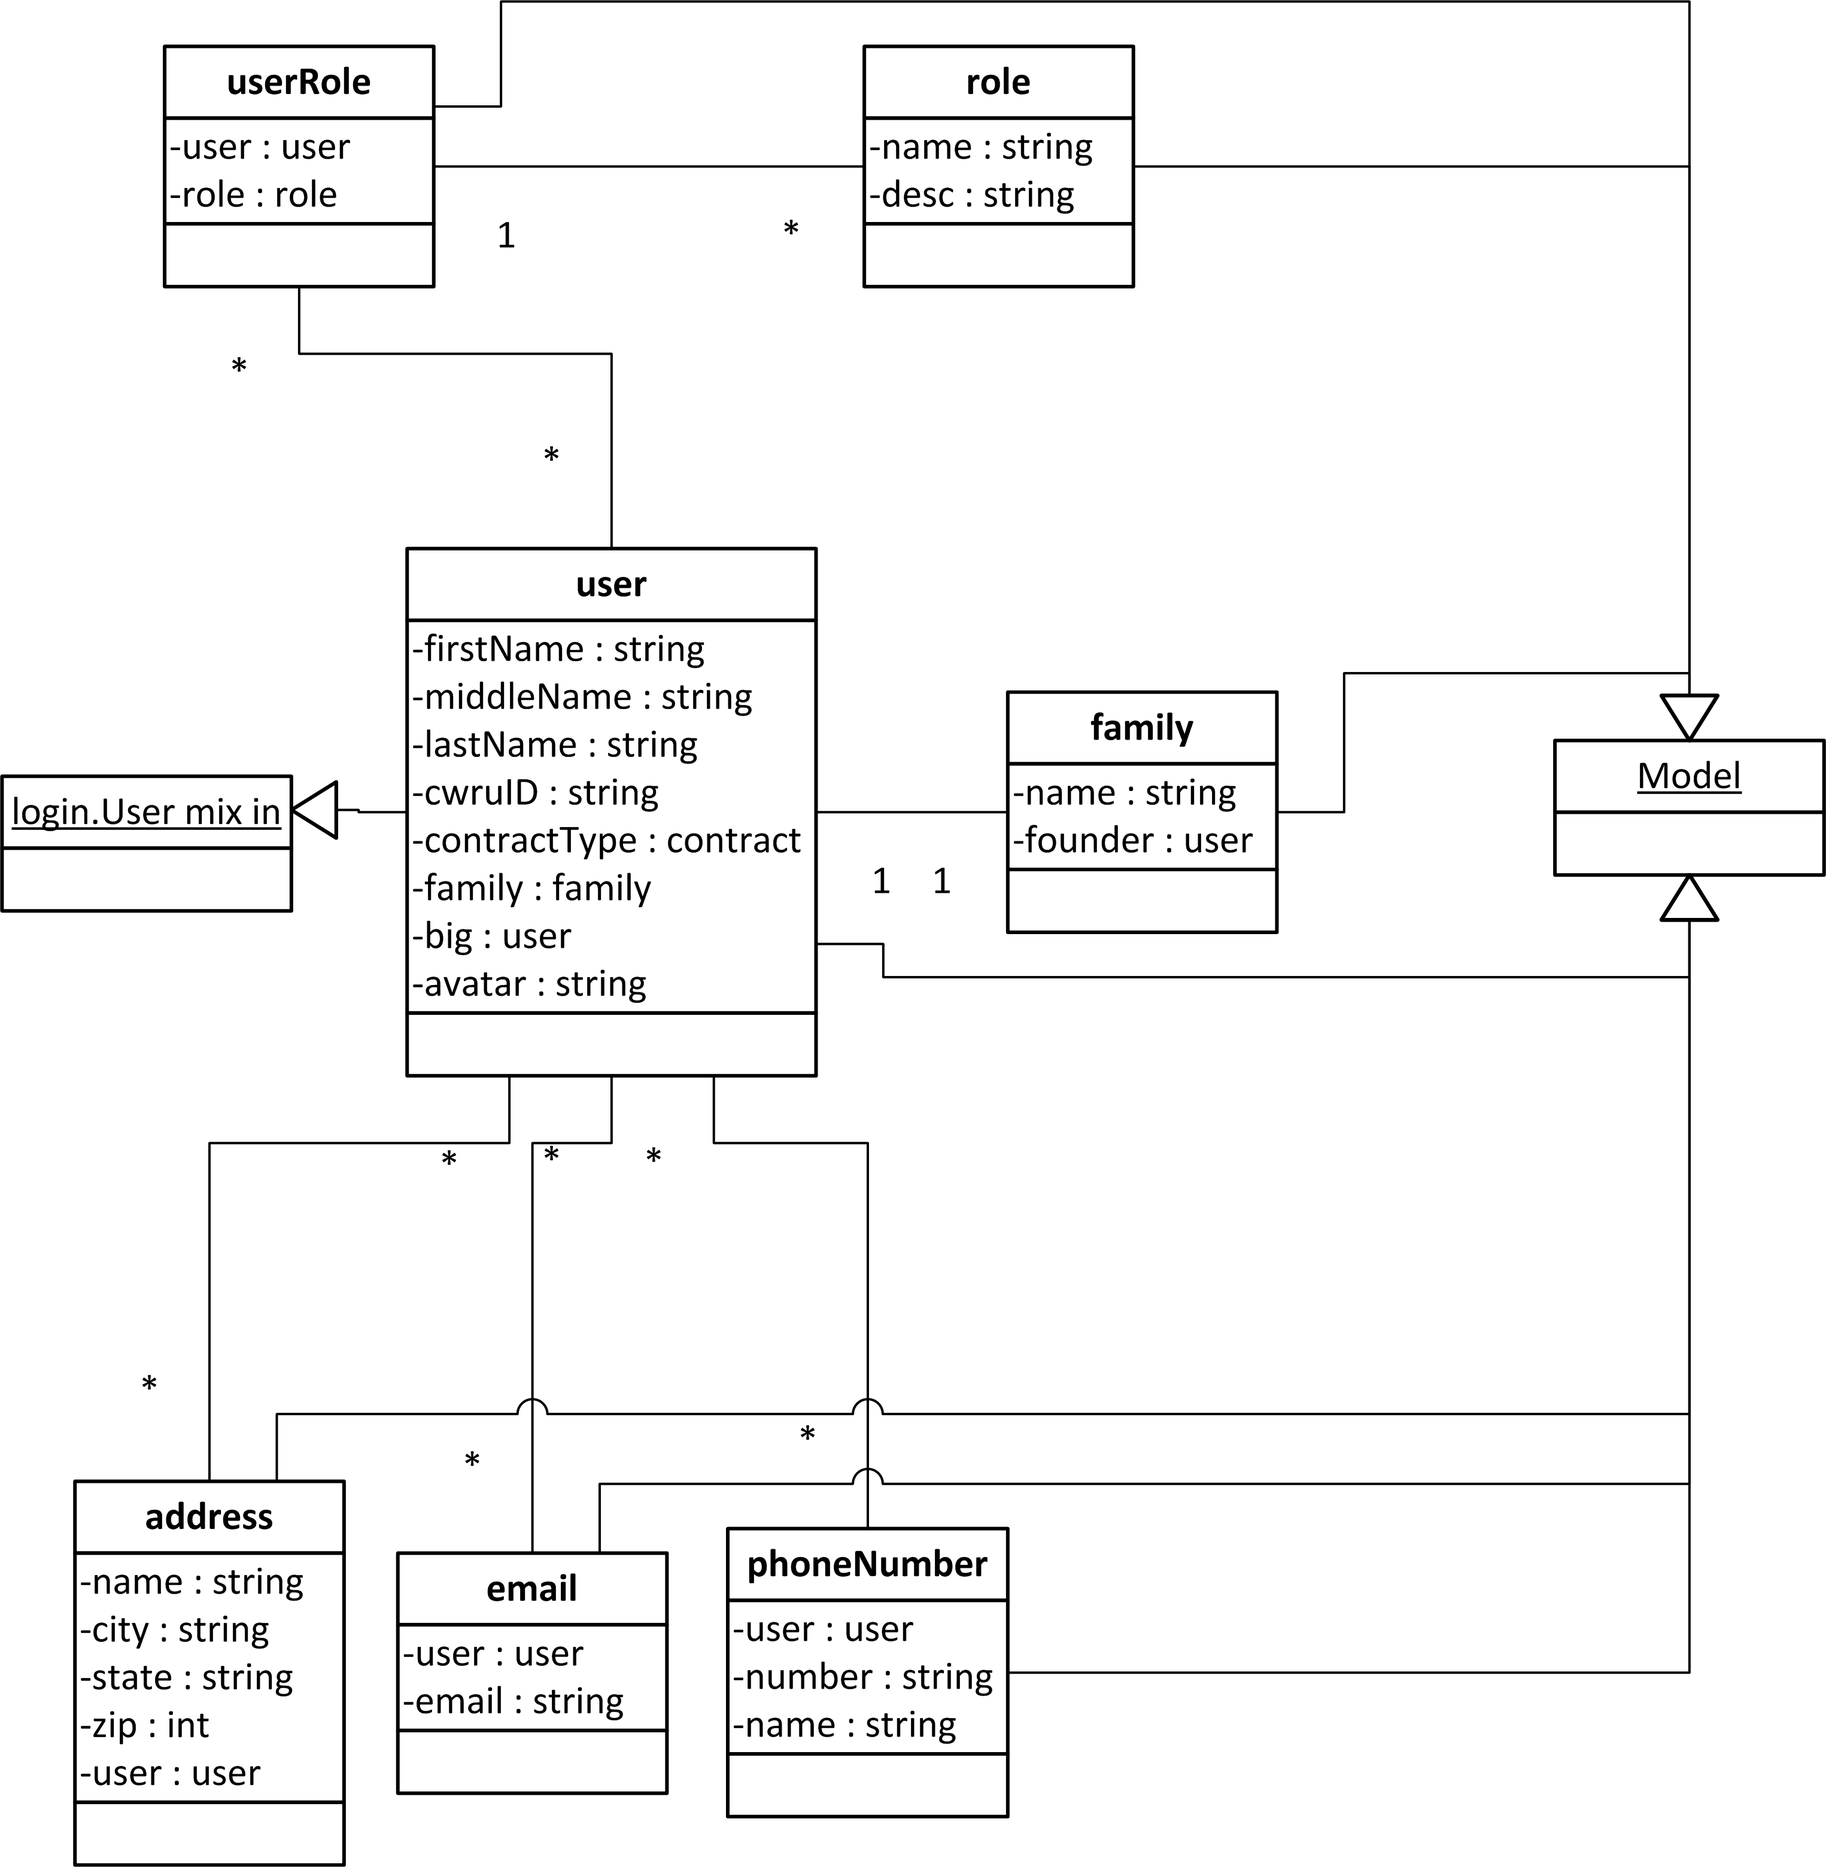
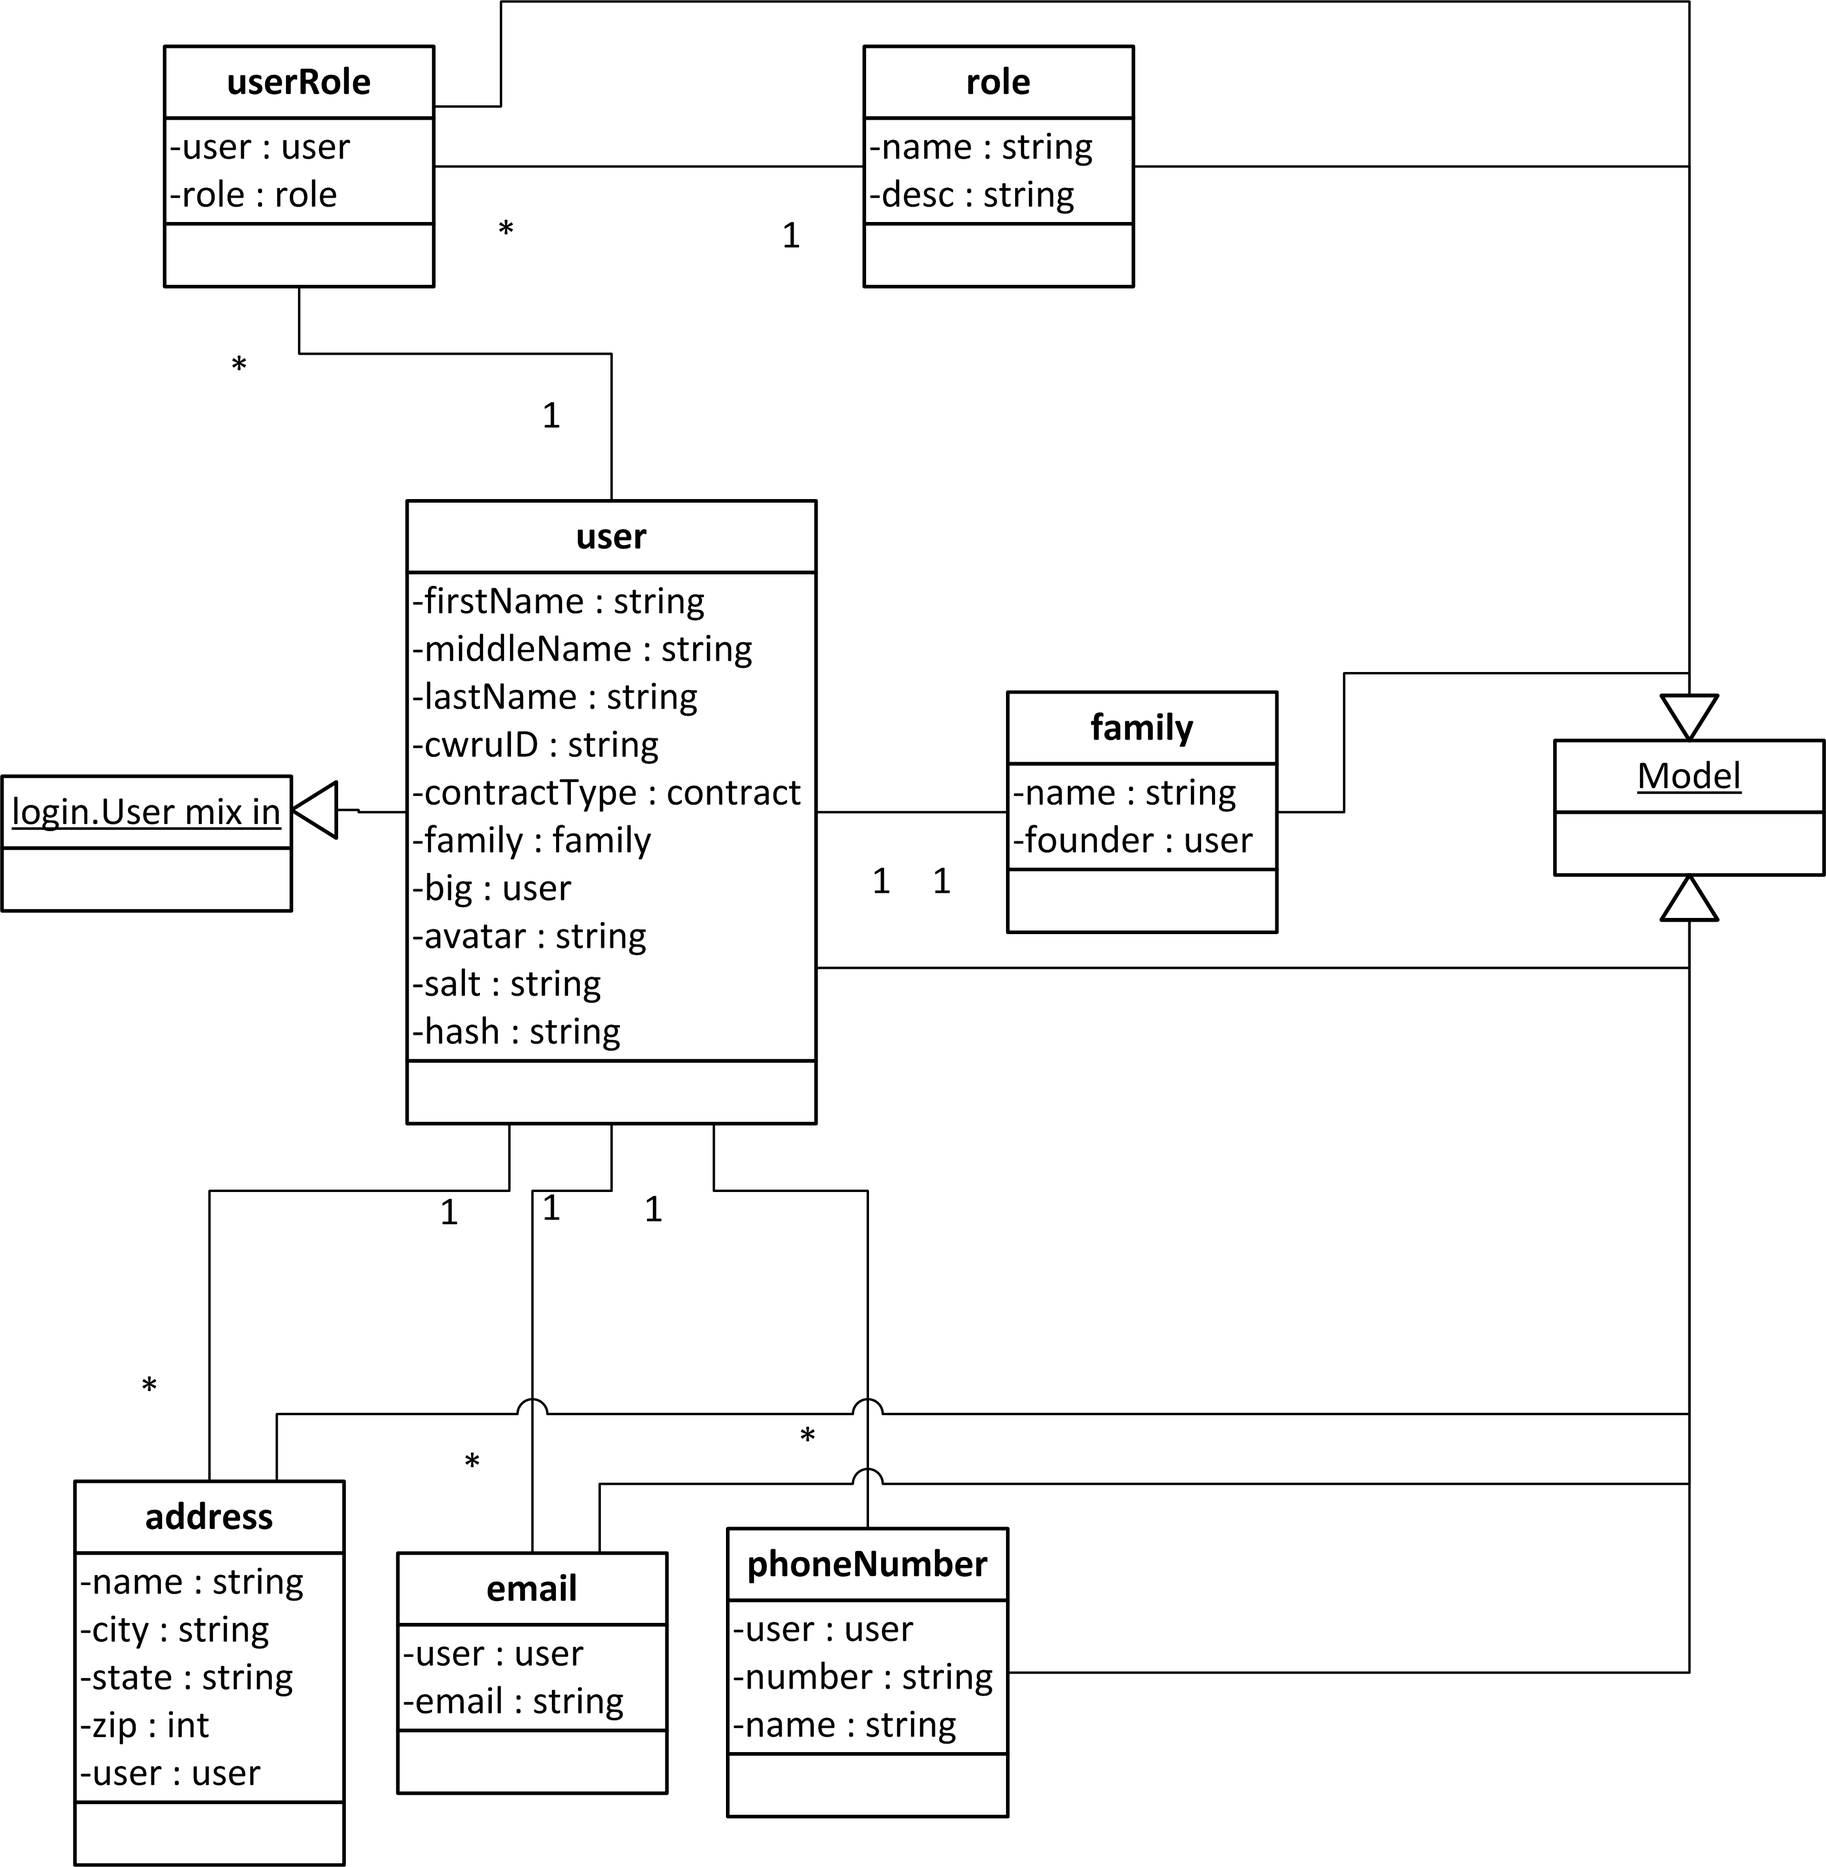
Still needs to be proofread but the main version is done

Changed region(s): [[0.218, 0.2798, 0.4671, 0.6218], [0.4671, 0.4974, 0.4982, 0.5285]]

diff --git a/docs/design/design.tex b/docs/design/design.tex
@@ -314,6 +314,23 @@ extensions to Flask. User Login is such a common task that an extension to Flask
 \end{figure}
 \FloatBarrier
 
+The LoginView is responsible for taking in the loginTemplate and using the info in the loginForm to do the password hashing algorithm described in section \ref{sec:passwordSecurity}. If the hashed password matches the stored hashed password then the user is successfully logged in and the view updates the applications state
+
+\subsubsection{Password Security}
+\label{sec:passwordSecurity}
+
+In order to provide the most security possible logins will only be done over an SSL encrypted connection. In addition passwords shall be salted and hashed before being stored. No plain text form of the password shall ever be stored anywhere by the webserver.
+
+The general process for checking the password is:
+
+\begin{enumerate}
+\item Retrieve user from datastore based on provided username
+\item Retrieve salt from user entity
+\item Take salt and concatenate it with the received password
+\item Perform a SHA-256 Hash on the salted password
+\item Check if the hash matches the hash stored in the user entity
+\end{enumerate}
+
 \subsection{General Models}
 
 \subsubsection{Event Model}
@@ -326,6 +343,8 @@ extensions to Flask. User Login is such a common task that an extension to Flask
 \label{fig:eventModelDiagram}
 \end{figure}
 \FloatBarrier
+
+Event is a generic event type. Other models such as ServiceEvent and Chapter are derived from it. It is assumed event has 1 and only 1 location. Location is just info about the physical location of an event. Location was separated because it was not known if the assumption of 1 and only 1 location would hold. In the event that the association does not hold. Nothing will need to be changed.
 
 \subsection{Service Event Tracking}
 
@@ -366,6 +385,10 @@ The service event related models are and their associations are shown in figure 
 \end{figure}
 \FloatBarrier
 
+ServiceEvent inherits from event and adds the extra fields shown in the diagram.
+
+ServiceEvents and Users have a many-to-many relationship. ServiceSignup was created to resolve that relationship. Each ServiceSignup can have 1 ServiceEvent and 1 User. However, each User and each ServiceEvent can have many ServiceSignUps.
+
 \FloatBarrier
 \begin{figure}[h!]
 \centering
@@ -374,6 +397,8 @@ The service event related models are and their associations are shown in figure 
 \label{fig:serviceReportModelDiagram}
 \end{figure}
 \FloatBarrier
+
+There are 2 main types of Service Reports InsideServiceReports and OutsideServiceReports. InsideServiceReports deal with events that the chapter has condoned as a service event and announced at chapter. For this reason a ServiceEvent should already exist that the report can be associated with. OutsideServiceReports on the other hand are events done by a brother on his/her own. Therefore there is no reason to assume that there is a ServiceEvent already created. That is way the fields in the two need to be different.
 
 \FloatBarrier
 \begin{figure}[h!]
@@ -384,9 +409,15 @@ The service event related models are and their associations are shown in figure 
 \end{figure}
 \FloatBarrier
 
+ServiceHour resolves the many-to-many relationship between Users and ServiceReports. ServiceReports can have many ServiceHours and Users can have many ServiceHours, but ServiceHours can have only one User and one ServiceReport. InsideServiceReport and OutsideServiceReport derive from the same base model despite sharing no common fields. This was done to allow a single ServiceHour Model that can reference both InsideServiceReports and OutsideServiceReports. Without the inheritance two types of ServiceHour would need to be created.
+
+
 \subsubsection{Create Service Event View, Form, and Template Structure}
 
 The general structure of the Create Service Event Views, Forms and Template components is shown in figure \ref{fig:createServiceEventViewFormTemplateDiagram}.
+
+The service event view will display a list of current service events.
+For exec, there will be an option to create/update service events. This option will lead to the create/update service events view. This includes the create/update service events form which meets the requirements specification. The view allows the exec member to accept or reject changes they have made, or accept or reject an event they have created.
 
 \FloatBarrier
 \begin{figure}[h!]
@@ -401,6 +432,9 @@ The general structure of the Create Service Event Views, Forms and Template comp
 
 The general structure of the Event Signup Views, Forms, and Template components is shown in figure \ref{fig:eventSignupViewFormTemplateDiagram}.
 
+
+For brothers and pledges, there will be an option to sign up for a service event from the list. Selecting this option takes the brother to the create/update service events view, and displays the event details and the event sign up form. The event sign up form allows the brother to sign up for an event. This leads to the additional information view, containing the additional information form, which the brother or pledge can fill out if necessary.
+
 \FloatBarrier
 \begin{figure}[h!]
 \centering
@@ -412,6 +446,7 @@ The general structure of the Event Signup Views, Forms, and Template components 
 
 \subsubsection{Requirements Traceability Matrix}
 
+\FloatBarrier
 \begin{table}
     \begin{tabular}{|l|l|}
         \hline
@@ -426,6 +461,7 @@ The general structure of the Event Signup Views, Forms, and Template components 
         \hline
     \end{tabular}
 \end{table}
+\FloatBarrier
 
 \subsection{Member Contracts}
 
@@ -465,9 +501,17 @@ The member contract related models and their associations are shown in figure \r
 \end{figure}
 \FloatBarrier
 
+Each contract can have multiple requirements which is modeled by Req. There are three specific types of requirements hour requirements, dues requirements and attendance requirements. These are modeled by the subtypes of Req, hourReq, duesReq, and attendanceReq. hourReq specifies a type field to differentiate between inside and outside hours. The type field also provides future expandability. Same goes for the type field in the attendanceReq model.
+
+chapterEvent is a child of Event. This was added so that attendanceReq could specify either a chapter event or a service event as required.
+
+By allowing the specific requirements to derive from a base requirements class the modeling of the contract requirements is very flexible and easily expandable. If a new type of requirement is needed it simply needs to be added to the model class hierarchy.
+
 \subsubsection{Forms, Views, and Templates}
 
 The general structure of the member contract Views, Forms, and Template components is shown in figure \ref{fig:memberContractViewFormTemplateDiagram}.
+
+For exec members, the contract view will display the option for creating or updating an existing contract. This will lead to the create/update contract view. The create/update contract view will display the create/update contract form and accept the data as detailed in the requirements specification.
 
 \FloatBarrier
 \begin{figure}[h!]
@@ -478,8 +522,11 @@ The general structure of the member contract Views, Forms, and Template componen
 \end{figure}
 \FloatBarrier
 
+For brothers and pledges, the contract view will display a list of contract types. Selecting a contract type will allow the brother to see the information as detailed in the requirements specification. The select contract view will then have a button allowing the brother to sign their contract, and a button to allow the brother or pledge to go back to the list of contracts.
+
 \subsubsection{Requirements Traceability Matrix}
 
+\FloatBarrier
 \begin{table}
     \begin{tabular}{|l|l|}
         \hline
@@ -494,6 +541,7 @@ The general structure of the member contract Views, Forms, and Template componen
         \hline
     \end{tabular}
 \end{table}
+\FloatBarrier
 
 
 \subsection{Member Profiles}
@@ -534,9 +582,23 @@ The member profile related models and their associations are shown in figure \re
 \end{figure}
 \FloatBarrier
 
+The User model contains the basic information about each user. Because this website is for a Case student organization it is assumed that all users had a caseID. This id will most likely be used as the username. A unique part of the organization is that each member has what is known as a Family. The family of a member is determined by who that member's Big is. A big is someone that is already a member of the chapter. A big is supposed to help orient the new member into the chapter. The new member is referred to as a little. Each user can have one and only one big. However, users can have multiple littles.
+
+The User model also is a child class of login.User\_mixin. login.User\_mixin is an interface defined in the Flask-Login package that will allow the user entity to be stored in the users session variables.
+
+Each user can have multiple addresses, multiple email address, and multiple phoneNumbers. This is why the address, email, and phoneNumber information are broken into separate models.
+
+userRole resolves a many-to-many relationship between role and user. Each user can have multiple roles and each role can have multiple users. The role will be used to differentiate between the different user classes. For example Exec members will have the Exec role and Brother role but Brothers will have only Brother role.
+
 \subsubsection{Forms, View, and Templates}
 
 The general structure of the member profile Views, Forms, and Template components is show in figure \ref{fig:memberProfileViewFormTemplateDiagram}.
+
+The member list view shows a list of all member profiles. Brothers and pledges will be able to search for a specific brother by name or select the brother from the list. This will take them to the member profile view, which displays the information detailed in the requirements specification.
+
+The exec will be able to create member profiles from an option in the member list view. This will take them to the create/update member profile view,which has the create/update member profile form. This allows exec to enter information as specified by the requirements specification.
+
+Brothers and pledges will be able to update their profiles from the create/update profile view as well, but only for their own profile.
 
 \FloatBarrier
 \begin{figure}[h!]
@@ -549,6 +611,7 @@ The general structure of the member profile Views, Forms, and Template component
 
 \subsubsection{Requirements Traceability Matrix}
 
+\FloatBarrier
 \begin{table}
     \begin{tabular}{|l|l|}
         \hline
@@ -562,7 +625,7 @@ The general structure of the member profile Views, Forms, and Template component
         \hline
     \end{tabular}
 \end{table}
-
+\FloatBarrier
 
 \subsection{Chapter Calendar}
 
@@ -608,9 +671,15 @@ The chapter blog related models and their associations are show in figure \ref{f
 \end{figure}
 \FloatBarrier
 
+The blog model is very simple. Essentially there are only two things that need to be stored the posts and the comments associated with the post.
+
 \subsubsection{Forms, Views, and Templates}
 
 The general structure of the chapter blog Views, Forms, and Template components is shown in figure \ref{fig:chapterBlogViewFormTemplateDiagram}.
+
+The blog view will display the most recent blog post and its comments, as well as the submit comment form for brothers and pledges. In this view there will be an option to view archives of the blog along with their comments.
+
+Exec will have access to the moderate comments view, which will allow them to remove any comments on the blog. Exec will also be able to submit blog posts using the submit blog form on the blog view.
 
 \FloatBarrier
 \begin{figure}[h!]
@@ -623,6 +692,7 @@ The general structure of the chapter blog Views, Forms, and Template components 
 
 \subsubsection{Requirements Traceability Matrix}
 
+\FloatBarrier
 \begin{table}
     \begin{tabular}{|l|l|}
         \hline
@@ -635,7 +705,7 @@ The general structure of the chapter blog Views, Forms, and Template components 
         \hline
     \end{tabular}
 \end{table}
-
+\FloatBarrier
 
 \subsection{Photos}
 
@@ -680,10 +750,16 @@ to parts of their account without giving away the account password. Oauth's prot
 
 The general structure of the member contract Views, Forms, and Template components is shown in figure \ref{fig:photoViewFormTemplateDiagram}.
 
+Members and pledges will be able to view photo albums and their descriptions from the photo album view, and will be able to submit photos to albums using the submit photo form.
+
+Exec members will be able to review and authorize the submitted photos and place them into albums in the photo album view as specified in the requirements specification.
+
+Each of the views will make calls to the photobucket API in order to retrieve the necessary information about each photo and album.
+
 \FloatBarrier
 \begin{figure}[h!]
 \centering
-\includegraphics[scale=.65]{img/viewFormTemplateDiagrams/submitPhoto}
+\includegraphics[scale=.65]{img/viewFormTemplateDiagrams/photo}
 \caption{Photo Submission Views, Forms and Template Structure}
 \label{fig:photoViewFormTemplateDiagram}
 \end{figure}
@@ -703,6 +779,18 @@ The activity diagram for the Chapter Statistics feature of the website was inclu
 \caption{Chapter Statistics Activity Diagram}
 \label{fig:chapterStatisticsActivityDiagram}
 \end{sidewaysfigure}
+\FloatBarrier
+
+\subsubsection{Forms, Views, and Templates}
+Exec members will be able to access the statistics view, which will display the information as specified in the requirements specification. There will also be an option to export the statistics into and offline format.
+
+\FloatBarrier
+\begin{figure}[h!]
+\centering
+\includegraphics[scale=.65]{img/viewFormTemplateDiagrams/chapterStats}
+\caption{Chapter Statistics View, Form, and Template Structure}
+\label{fig:statsViewFormTemplateDiagram}
+\end{figure}
 \FloatBarrier
 
 \newpage
